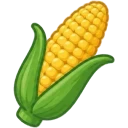
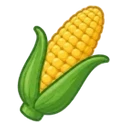
fix(categories): выровнять иконки и дать чипу воздух по краям
В чипе «Перец сладкий» хвостик буквы «й» и верх иконки упирались в скруглённый
край пилюли и выглядели вылезшими за чип. Причин две.

Иконка. У перца и кукурузы рисунок занимал все 128px холста, у остальных шести
иконок — 117 из 128. В ряду это читается как «эта иконка крупнее и не влезает».
Скрипт scripts/normalize-category-icons.mjs (npm run img:icons) вписывает
рисунок в общие 117px и ставит по центру; идемпотентен — файлы, уже стоящие в
норме, не перезаписывает, чтобы повторные запуски не копили потерю качества.
Иконки заливаются руками из внешнего редактора, поэтому набор ещё и проверяется
тестом (tests/category-icons.test.ts): упавший тест чинится запуском скрипта.

Отступы. Было 6px слева и 10px справа при радиусе пилюли в половину высоты — у
верхнего края граница уже заметно уходит внутрь, и содержимое оказывалось
вплотную к изгибу. Стало 8 и 12. Место взято из промежутков (gap-1 вместо
gap-1.5 между иконкой и текстом и между чипами): строка из девяти чипов и так
занимает контейнер целиком, свободного места в ней было меньше 20px.

Проверено в Chromium на 320–1920px: строка по-прежнему занимает всю ширину без
прокрутки от 1280px, горизонтальной прокрутки страницы нет нигде.

Claude-Session: https://claude.ai/code/session_01RWnBbEYi14sD1qwUJs4Yzh

Changed region(s): [[0.0938, 0.0, 0.9062, 1.0]]

diff --git a/tests/category-icons.test.ts b/tests/category-icons.test.ts
@@ -1,0 +1,77 @@
+import fs from "node:fs";
+import path from "node:path";
+import sharp from "sharp";
+import { describe, expect, it } from "vitest";
+import { categoryEmoji, getCategoryIcon } from "@/lib/categories";
+
+// Иконки категорий стоят в круглых чипах каталога рядом друг с другом, и глаз
+// сравнивает не размер файла, а размер самого рисунка. Стоит одной картинке
+// упереться в край холста — в ряду она выглядит крупнее соседних и словно
+// вылезает за чип. Ровно так и было с перцем сладким и кукурузой.
+//
+// Иконки приходят из внешнего редактора и заливаются руками, так что «не
+// забыть прогнать npm run img:icons» — ненадёжная договорённость. Проверяем
+// файлы тестом: нормализатор (scripts/normalize-category-icons.mjs) приводит их
+// к этим же числам, поэтому упавший тест чинится одним запуском скрипта.
+
+const CANVAS = 128;
+const INK_MAX = 117;
+// Допуски — те же, что в скрипте: на экране пиксель холста это 0.19 пикселя.
+const SIZE_TOLERANCE = 1;
+const CENTER_TOLERANCE = 2;
+const ALPHA_THRESHOLD = 16;
+
+const root = path.join(__dirname, "..");
+
+/** Границы непрозрачной части картинки. */
+async function inkBounds(file: string) {
+  const { data, info } = await sharp(file)
+    .ensureAlpha()
+    .raw()
+    .toBuffer({ resolveWithObject: true });
+
+  let minX = info.width;
+  let minY = info.height;
+  let maxX = -1;
+  let maxY = -1;
+  for (let y = 0; y < info.height; y++) {
+    for (let x = 0; x < info.width; x++) {
+      if (data[(y * info.width + x) * info.channels + 3] <= ALPHA_THRESHOLD) continue;
+      if (x < minX) minX = x;
+      if (x > maxX) maxX = x;
+      if (y < minY) minY = y;
+      if (y > maxY) maxY = y;
+    }
+  }
+  return { left: minX, top: minY, width: maxX - minX + 1, height: maxY - minY + 1 };
+}
+
+const slugs = Object.keys(categoryEmoji).filter((slug) => getCategoryIcon(slug));
+
+describe("иконки категорий", () => {
+  it("набор иконок не пустой — иначе проверять нечего", () => {
+    expect(slugs.length).toBeGreaterThan(0);
+  });
+
+  it.each(slugs)("%s: файл лежит на месте", (slug) => {
+    const file = path.join(root, "public", getCategoryIcon(slug)!);
+    expect(fs.existsSync(file), `нет файла ${getCategoryIcon(slug)}`).toBe(true);
+  });
+
+  it.each(slugs)("%s: квадрат %dpx, рисунок вписан и стоит по центру", async (slug) => {
+    const file = path.join(root, "public", getCategoryIcon(slug)!);
+    const meta = await sharp(file).metadata();
+    expect([meta.width, meta.height]).toEqual([CANVAS, CANVAS]);
+
+    const ink = await inkBounds(file);
+    const longest = Math.max(ink.width, ink.height);
+    // Длинная сторона рисунка — общая для всего набора: иначе одна иконка
+    // выглядит крупнее соседних.
+    expect(Math.abs(longest - INK_MAX)).toBeLessThanOrEqual(SIZE_TOLERANCE);
+
+    const offX = ink.left - (CANVAS - ink.left - ink.width);
+    const offY = ink.top - (CANVAS - ink.top - ink.height);
+    expect(Math.abs(offX)).toBeLessThanOrEqual(CENTER_TOLERANCE);
+    expect(Math.abs(offY)).toBeLessThanOrEqual(CENTER_TOLERANCE);
+  });
+});

diff --git a/components/category-nav.tsx b/components/category-nav.tsx
@@ -85,15 +85,25 @@ export default function CategoryNav({
   }
 
   const chip = (active: boolean) =>
-    // pl-2 при pr-4: у иконки есть свои поля внутри картинки, поэтому слева
-    // отступ меньше — иначе чип выглядит перекошенным.
+    // pl-2 при pr-3: у иконки внутри картинки есть своё поле (иконки приведены
+    // к общему виду скриптом scripts/normalize-category-icons.mjs), поэтому
+    // слева отступ меньше — иначе чип выглядит перекошенным.
+    //
+    // Отступы именно такие, а не меньше: чип — круглая «пилюля» радиусом в
+    // половину высоты, и у верхнего края граница уже заметно ушла внутрь. При
+    // прежних 6/10px хвостик буквы «й» в «Перце сладком» и верх иконки
+    // оказывались вплотную к этому изгибу и выглядели вылезшими за чип.
+    // Место под них взято из промежутков (gap-1 вместо gap-1.5 и здесь, и
+    // между чипами): строка из девяти чипов и так занимает контейнер целиком,
+    // свободного места в ней меньше 20px — проверено измерением.
+    //
     // На телефоне чипы держат свою ширину и лента листается (shrink-0).
     // На десктопе они делят строку поровну (sm:flex-1) и занимают её от края
     // до края — иначе восемь коротких названий жались к левому краю, а справа
     // оставалась пустота.
     // Рамка есть в обоих состояниях: без неё выбранный чип был бы на 2px
     // крупнее остальных и строка бы дёргалась при переключении.
-    `inline-flex shrink-0 snap-start items-center justify-center gap-1.5 whitespace-nowrap rounded-full border py-1 pl-1.5 pr-2.5 text-xs font-semibold transition focus:outline-none focus-visible:ring-2 focus-visible:ring-brand-400 focus-visible:ring-offset-2 sm:flex-1 sm:py-2 sm:text-sm ${
+    `inline-flex shrink-0 snap-start items-center justify-center gap-1 whitespace-nowrap rounded-full border py-1 pl-2 pr-3 text-xs font-semibold transition focus:outline-none focus-visible:ring-2 focus-visible:ring-brand-400 focus-visible:ring-offset-2 sm:flex-1 sm:py-2 sm:text-sm ${
       active
         ? "border-brand-600 bg-brand-600 text-white shadow-sm"
         : // bg-surface, а НЕ bg-brand-50: brand-50 — это и есть фон страницы,
@@ -107,7 +117,7 @@ export default function CategoryNav({
       <div
         ref={trackRef}
         // snap-x + scroll-px: чип не «зависает» наполовину срезанным у края.
-        className="scrollbar-none -mx-1 flex snap-x scroll-px-1 gap-1.5 overflow-x-auto px-1 py-1"
+        className="scrollbar-none -mx-1 flex snap-x scroll-px-1 gap-1 overflow-x-auto px-1 py-1"
       >
         <Link href="/catalog" className={chip(!activeSlug)}>
           <LeafIcon className="h-4 w-4 shrink-0 sm:h-5 sm:w-5" />

diff --git a/lib/categories.ts b/lib/categories.ts
@@ -1,8 +1,7 @@
 // Иконки категорий: нарисованные картинки, а где картинки нет — эмодзи.
 
-// Эмодзи-фолбэк. Нужен не «на всякий случай»: у кукурузы своей иконки в
-// наборе нет, и она показывается именно эмодзи. Плюс подстрахует новую
-// категорию, которую заведут в админке раньше, чем нарисуют для неё картинку.
+// Эмодзи-фолбэк: подстрахует новую категорию, которую заведут в админке
+// раньше, чем нарисуют для неё картинку.
 export const categoryEmoji: Record<string, string> = {
   tomaty: "🍅",
   "perec-sladkiy": "🫑",
@@ -33,6 +32,10 @@ const CATEGORY_ICONS = new Set([
   // Заведёте новую категорию — положите public/categories/<слаг>.webp
   // (квадрат 128×128, прозрачный фон) и допишите слаг сюда. Пока файла нет,
   // категория показывается эмодзи из categoryEmoji — ничего не ломается.
+  //
+  // После добавления прогоните `npm run img:icons`: скрипт впишет рисунок в те
+  // же 117px из 128, что и у остальных. Без этого новая иконка окажется крупнее
+  // соседних и будет выглядеть вылезшей за круглый чип.
 ]);
 
 // Путь к иконке категории или null, если её нет.
